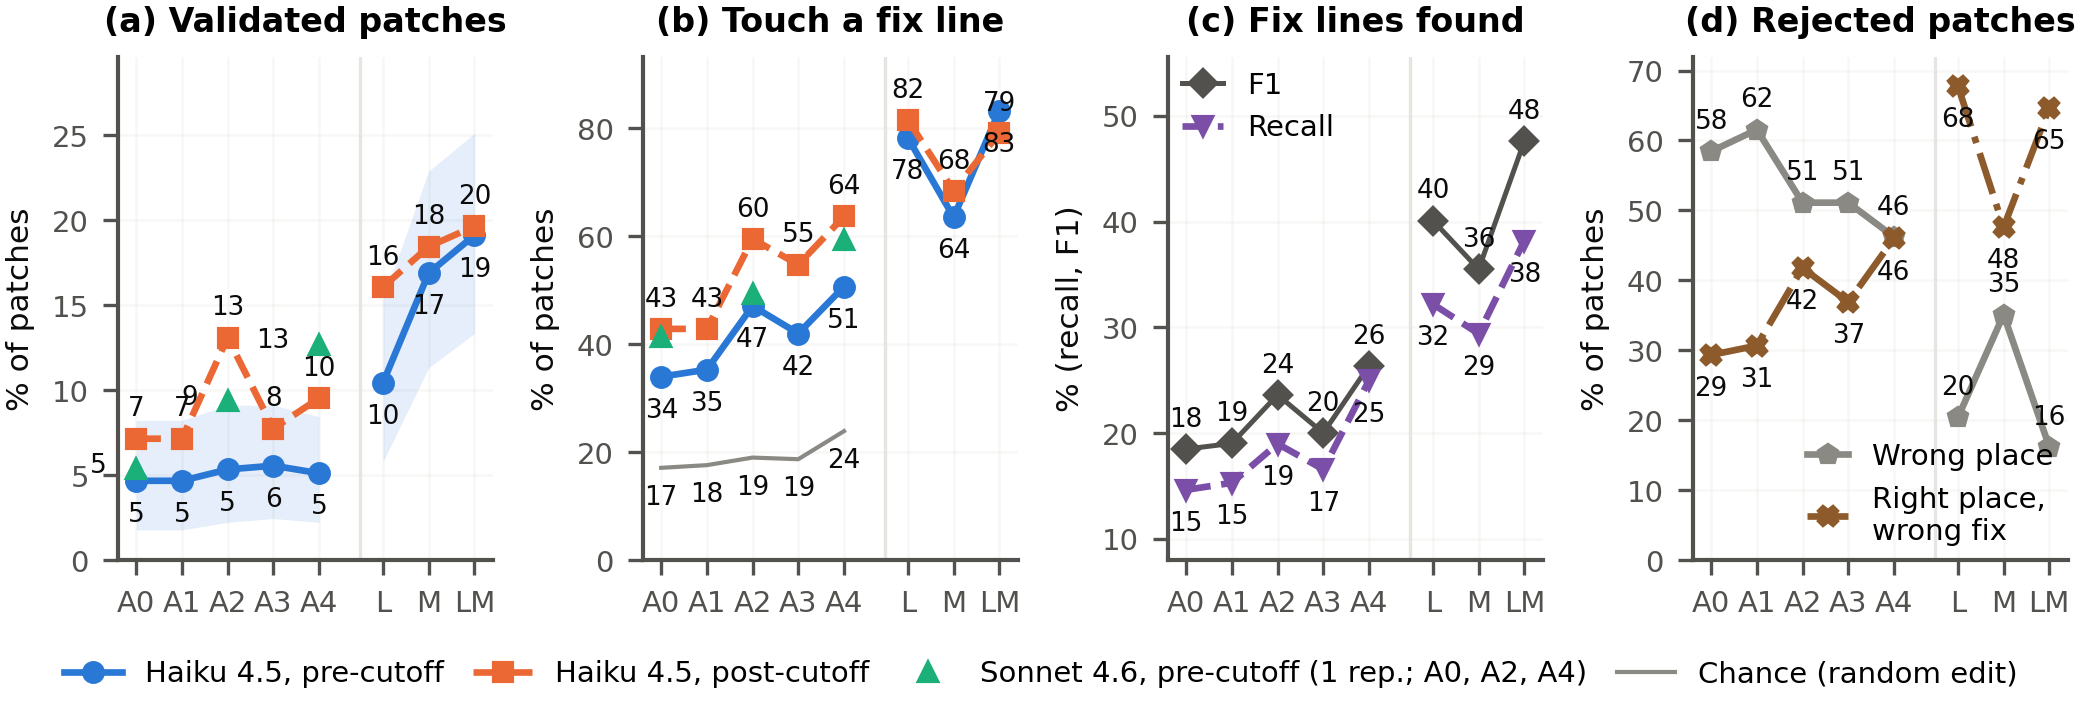
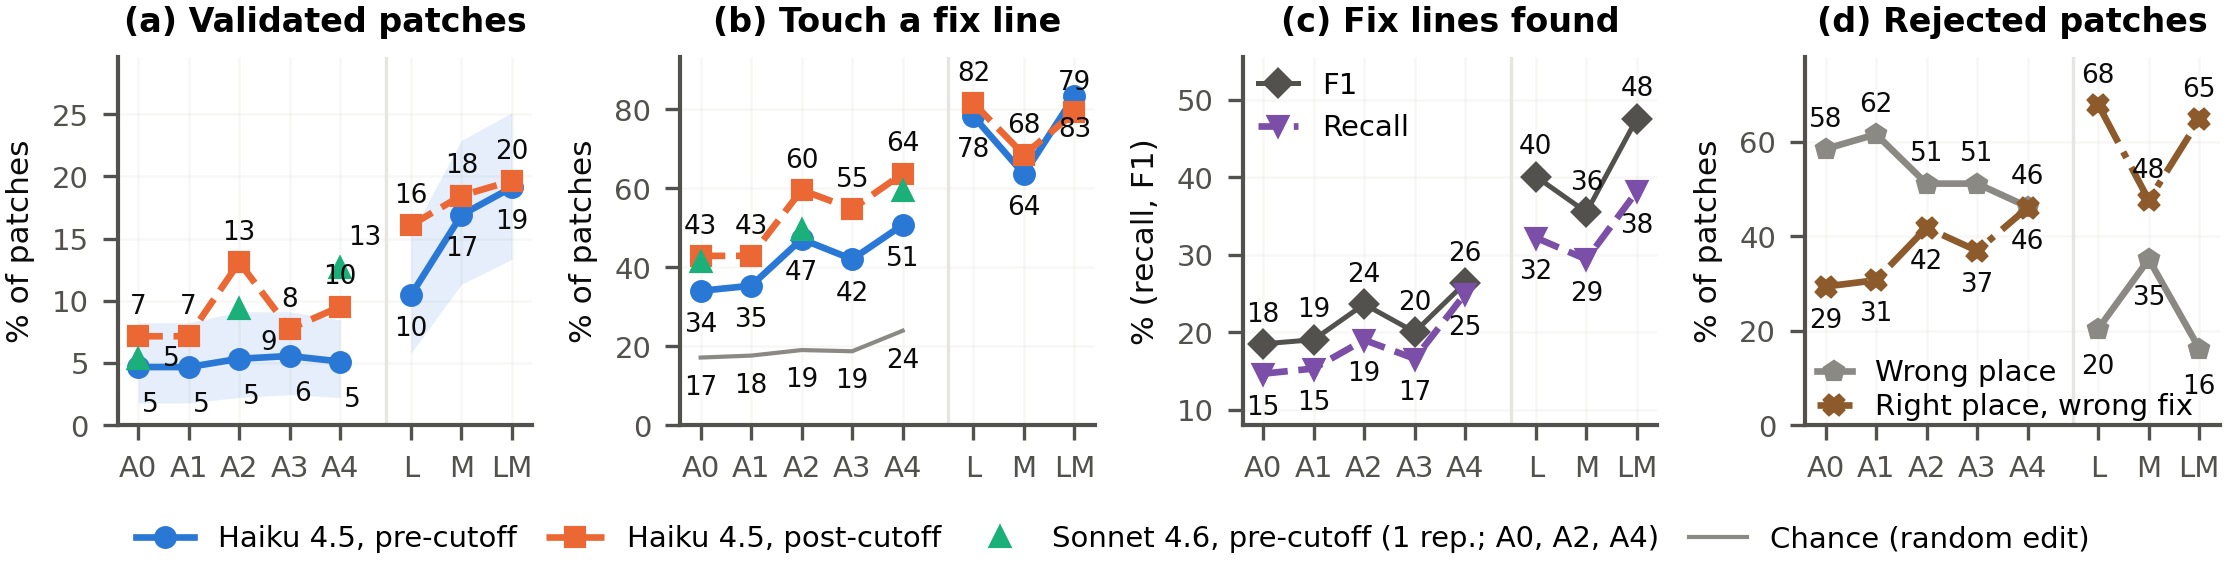
Ladder figure: wider, shorter layout with non-overlapping labels

diff --git a/paper_figures_ladder.py b/paper_figures_ladder.py
@@ -63,9 +63,9 @@ def save(fig, name: str) -> None:
     print(f"[paper_figures_ladder] wrote {OUT / name}.{{pdf,png}}")
 
 
-def label_points(ax, xs, ys, color, dy=4, fmt="{:.0f}", scale=100.0):
+def label_points(ax, xs, ys, color, dy=4, fmt="{:.0f}", scale=100.0, dx=0):
     for x, y in zip(xs, ys):
-        ax.annotate(fmt.format(y * scale), (x, y), textcoords="offset points", xytext=(0, dy),
+        ax.annotate(fmt.format(y * scale), (x, y), textcoords="offset points", xytext=(dx, dy),
                     ha="center", va="bottom" if dy >= 0 else "top", fontsize=6.3, color=INK)
 
 
@@ -94,7 +94,7 @@ def fig3_ladder() -> None:
     wrong = [out[a]["wrong_place"] / n for a in ARMS]
     sx = [SONNET_IDX[k] for k in ("A0", "A2", "A4")]
 
-    fig, axs = plt.subplots(1, 4, figsize=(7.0, 2.45))
+    fig, axs = plt.subplots(1, 4, figsize=(7.5, 2.0))
     pre_v, post_v = [v[0] for v in vpr], [post[a]["vpr_post"][0] for a in ARMS]
     son_v, son_t = [son[k]["vpr"] for k in ("A0", "A2", "A4")], [son[k]["touch"] for k in ("A0", "A2", "A4")]
     post_t = [post[a]["touch_post"][0] for a in ARMS]
@@ -104,11 +104,14 @@ def fig3_ladder() -> None:
     ax.plot(x, pre_v, "-o", color=BLUE, label="Haiku 4.5, pre-cutoff")
     ax.plot(x, post_v, "--s", color=ORANGE, label="Haiku 4.5, post-cutoff")
     ax.plot(sx, son_v, "^", color=AQUA, linestyle="none", label="Sonnet 4.6, pre-cutoff (1 rep.; A0, A2, A4)")
-    label_points(ax, x, pre_v, BLUE, dy=-5)
+    label_points(ax, x, pre_v, BLUE, dy=-6, dx=3)
     label_points(ax, x, post_v, ORANGE)
+    # Sonnet labels sit to the right of the triangle, below it at A2 and above it at A4, clear of the Haiku labels
+    son_off = {0: (6, 0, "center"), 2: (5, -5, "top"), 4: (2, 4, "bottom")}
     for xx, yy in zip(sx, son_v):
-        ax.annotate(f"{yy * 100:.0f}", (xx, yy), textcoords="offset points", xytext=(-7, 1), ha="right",
-                    va="center", fontsize=6.3, color=INK)
+        ox, oy, va = son_off[xx]
+        ax.annotate(f"{yy * 100:.0f}", (xx, yy), textcoords="offset points", xytext=(ox, oy), ha="left",
+                    va=va, fontsize=6.3, color=INK)
     ymax_a = 0.17
     if e6:
         lo = [e6["bigvul"]["summary"][k]["vpr_ci95"][0] / 100 for k in INFO]
@@ -160,7 +163,7 @@ def fig3_ladder() -> None:
     # (d) outcome shares, pre-cutoff Haiku
     ax = axs[3]
     ax.plot(x, wrong, "-p", color=GREY, label="Wrong place")
-    ax.plot(x, rpwf, "-.X", color=BROWN, label="Right place,\nwrong fix")
+    ax.plot(x, rpwf, "-.X", color=BROWN, label="Right place, wrong fix")
     label_points(ax, x, wrong, GREY)
     label_points(ax, x, rpwf, BROWN, dy=-5)
     if e6:
@@ -168,11 +171,11 @@ def fig3_ladder() -> None:
         r_i = [e6["bigvul"]["summary"][k]["outcomes"]["right_place_wrong_fix"] / 100 for k in INFO]
         ax.plot(xi, w_i, "-p", color=GREY)
         ax.plot(xi, r_i, "-.X", color=BROWN)
-        label_points(ax, xi, w_i, GREY)
-        label_points(ax, xi, r_i, BROWN, dy=-5)
+        label_points(ax, xi, w_i, GREY, dy=-6)
+        label_points(ax, xi, r_i, BROWN, dy=4)
     ax.set_title("(d) Rejected patches"); ax.set_ylabel("% of patches")
-    ax.set_ylim(0.0, 0.72)
-    ax.legend(loc="lower right", frameon=False, handlelength=1.4, borderaxespad=0.1)
+    ax.set_ylim(0.0, 0.78)
+    ax.legend(loc="lower left", frameon=False, handlelength=1.2, borderaxespad=0.0, labelspacing=0.2, bbox_to_anchor=(0.0, -0.02))
 
     for ax in axs:
         if e6:
